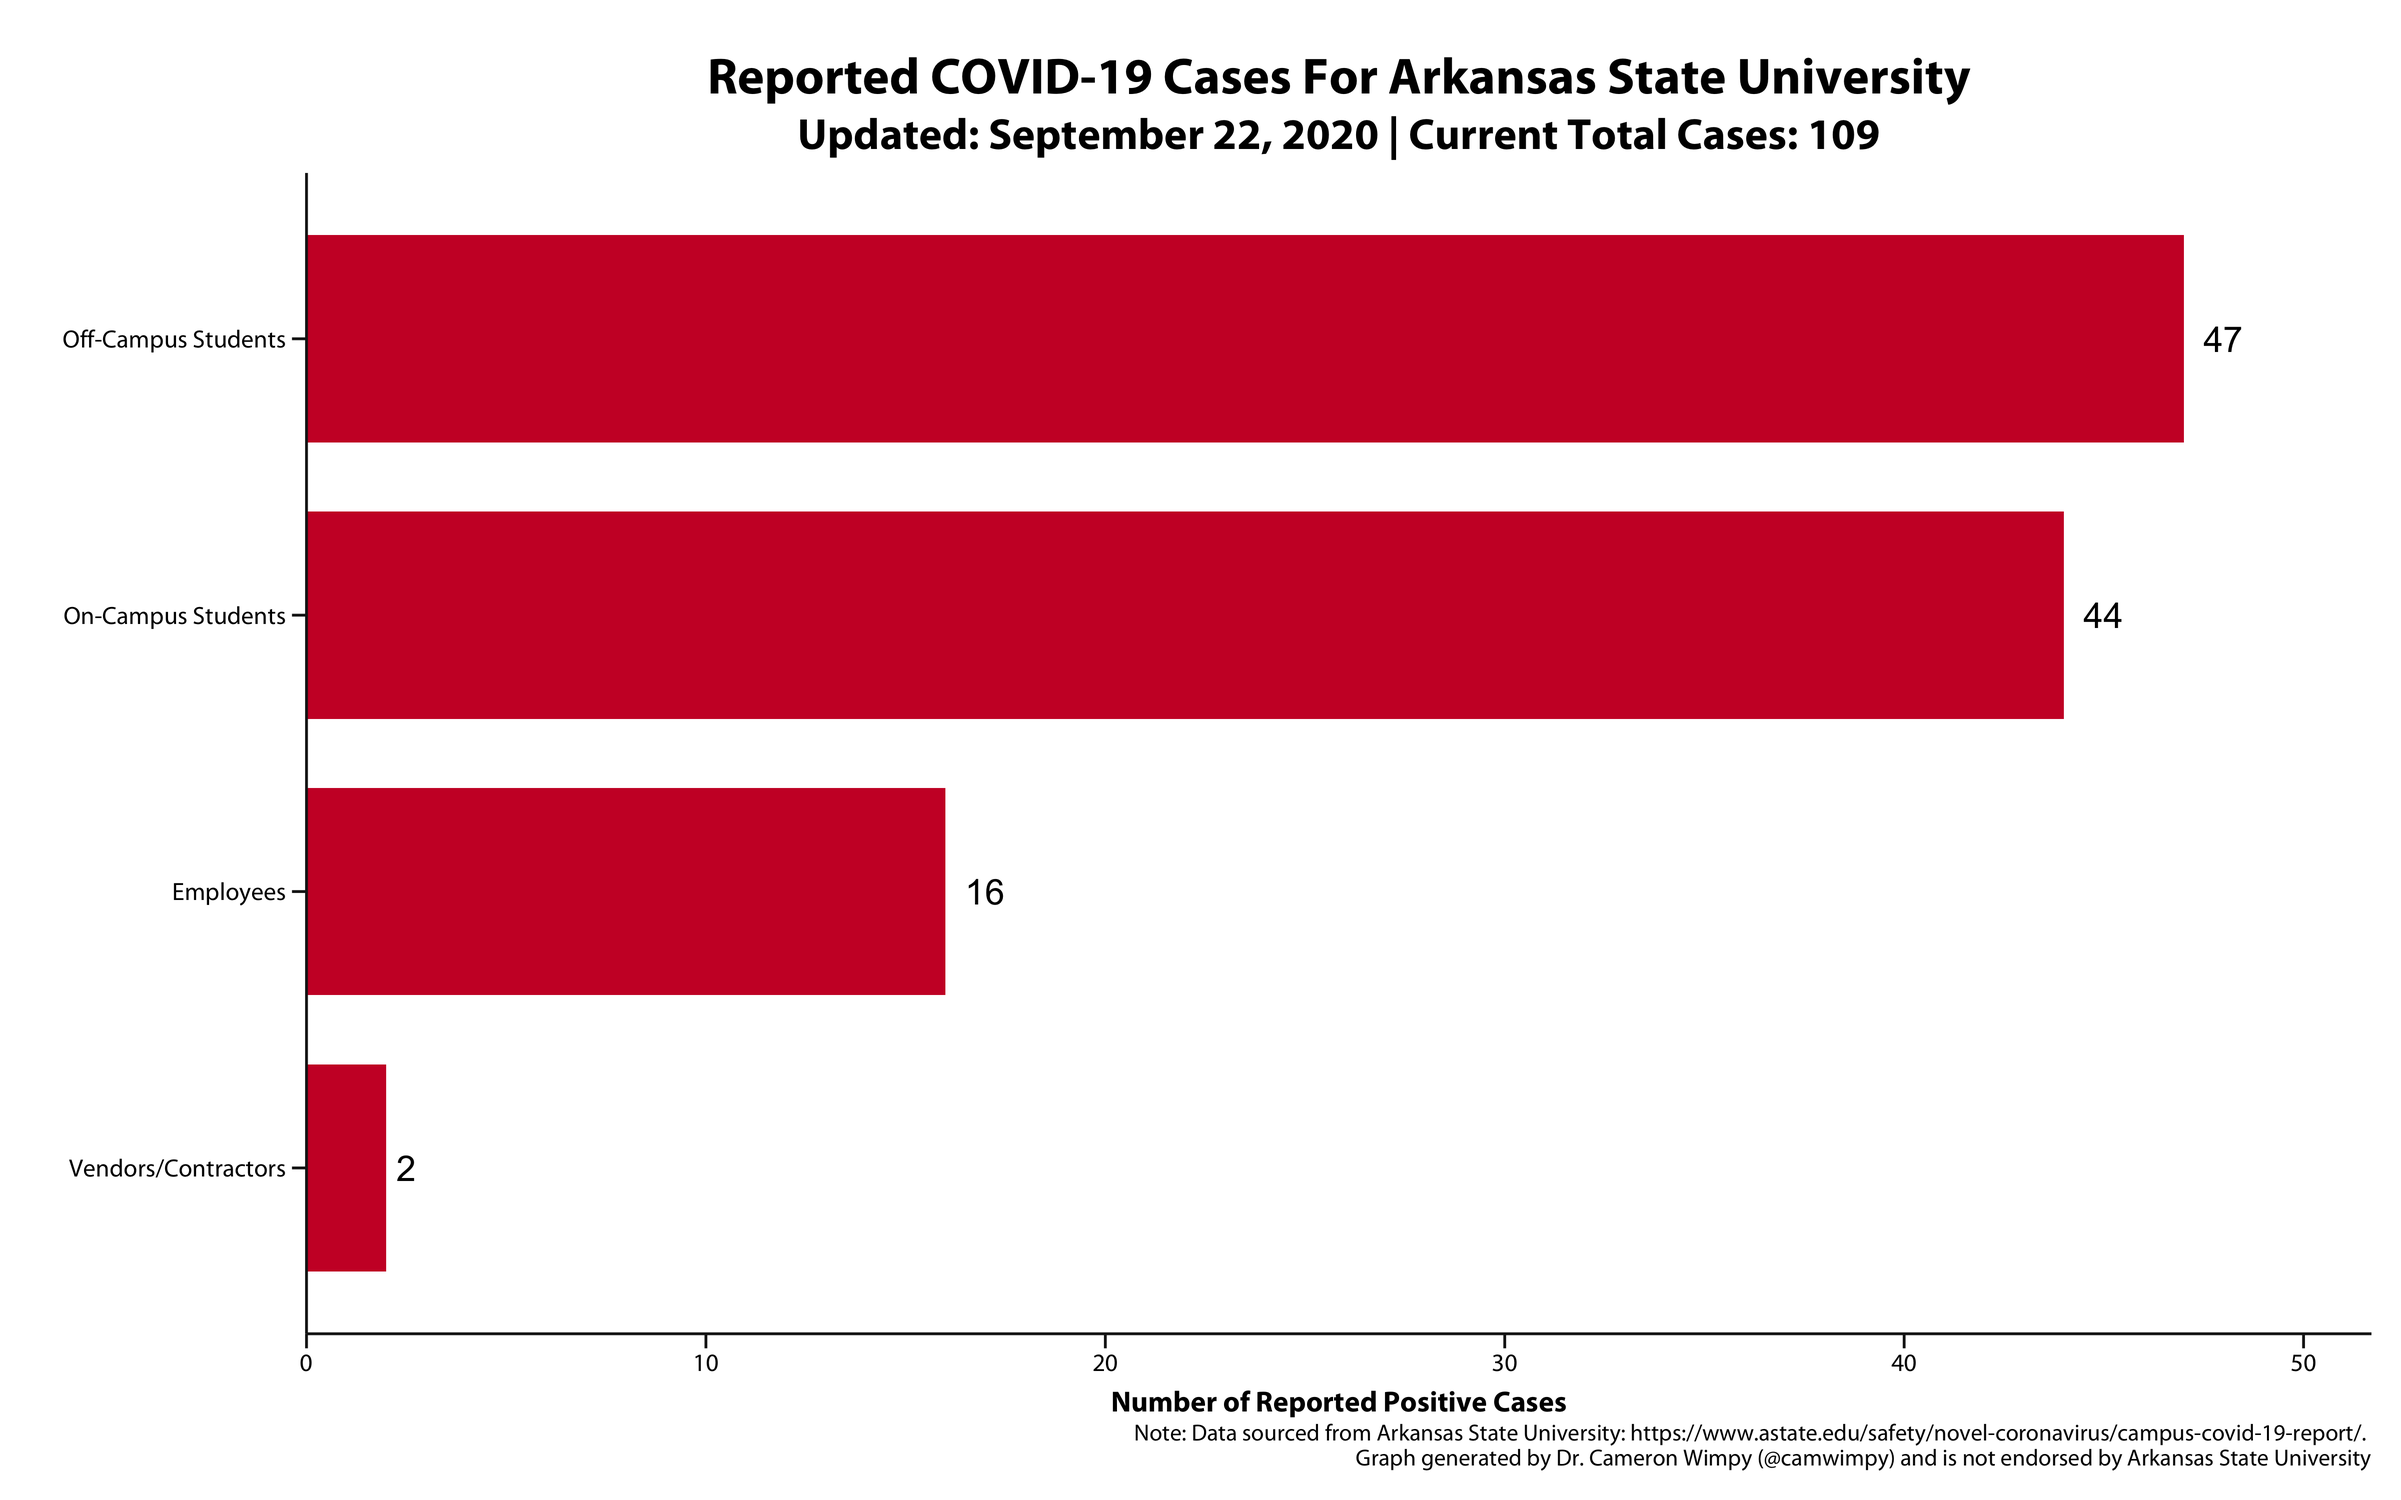
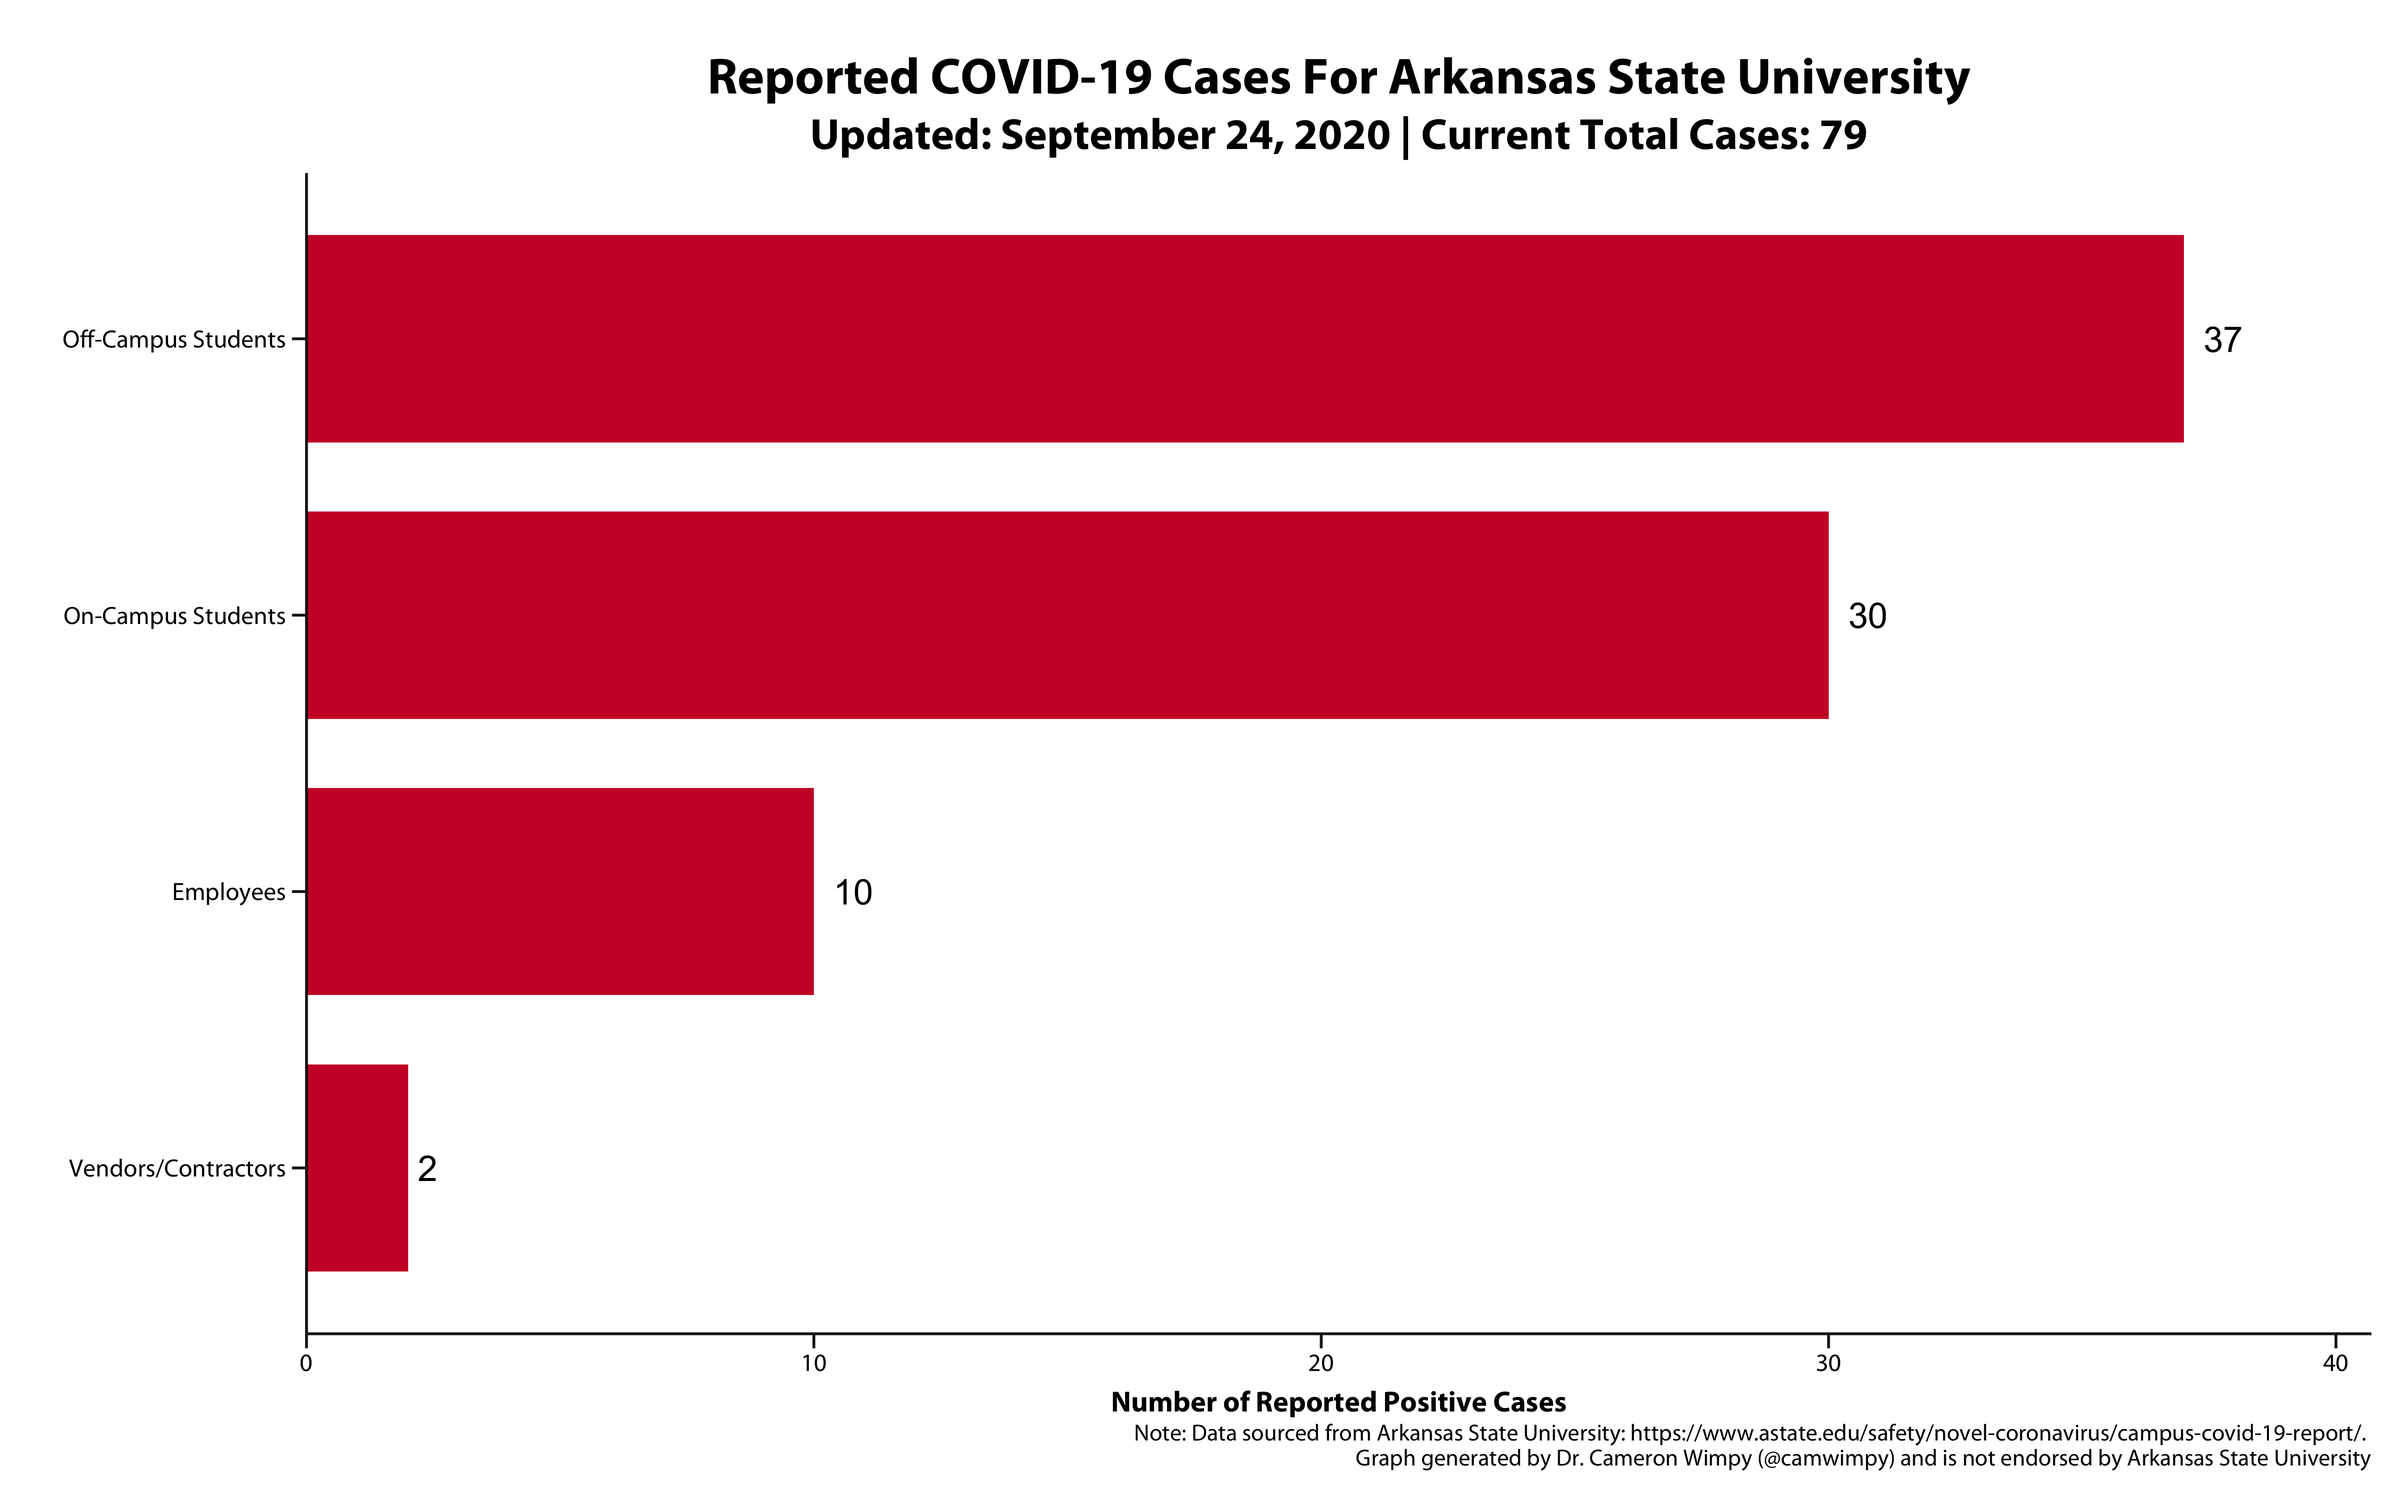
updated 9-24

diff --git a/README.md b/README.md
@@ -10,4 +10,4 @@ This repo is dedicated to making graphs to track the Covid-19 outbreak at Arkans
 
 ![](images/bar.png)
 
-### Updated: September 22, 2020
+### Updated: September 24, 2020
